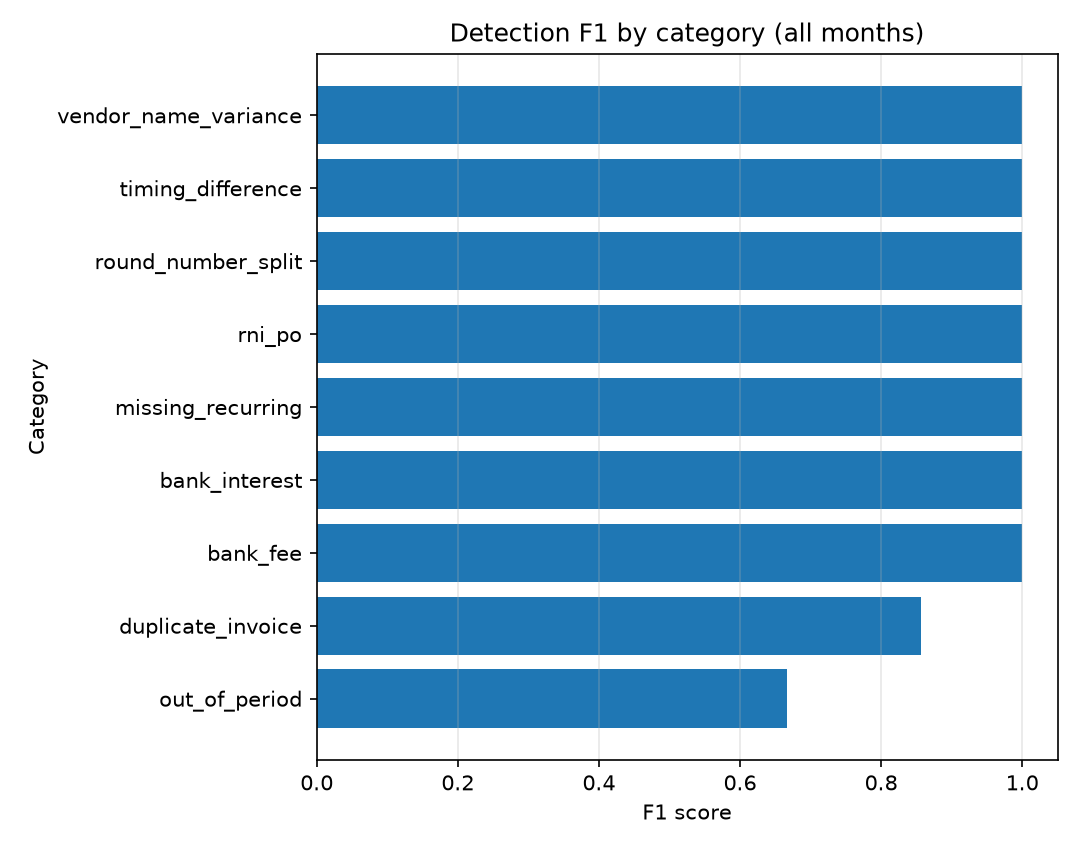
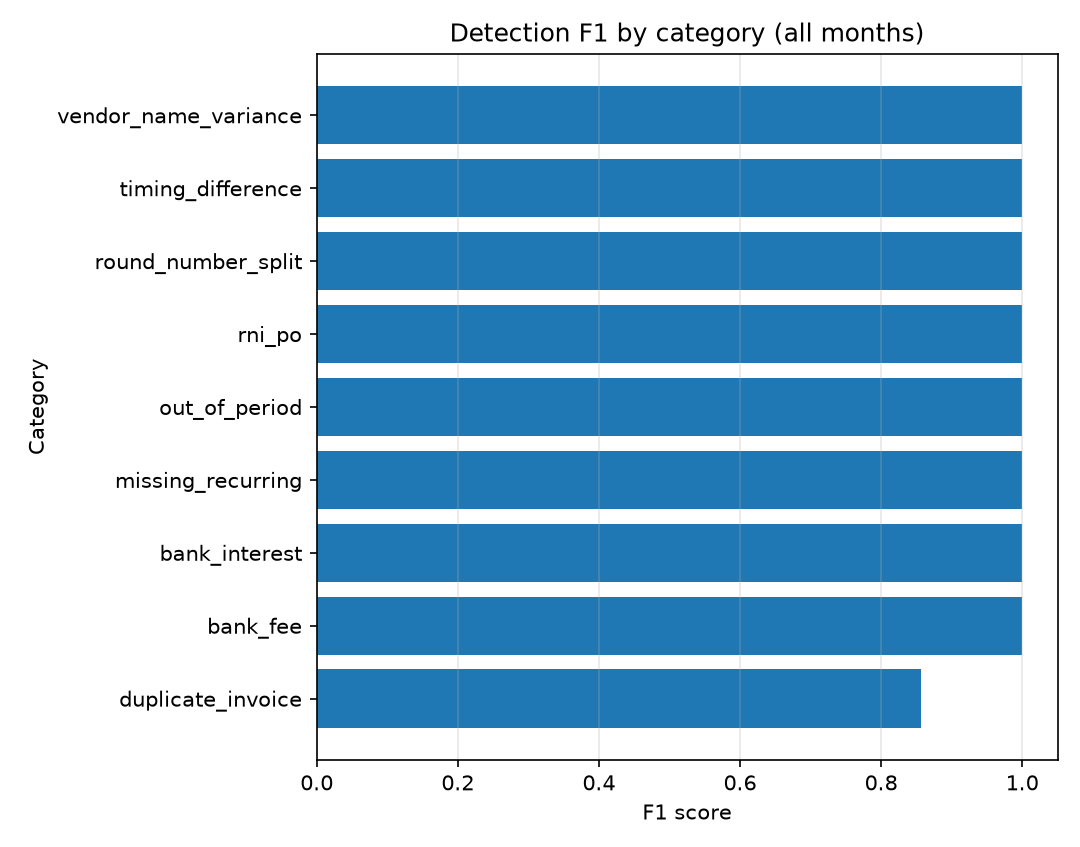
List one out_of_period ground truth entry per posting
A misdated double-entry posting is one anomaly, but the generator
listed both GL legs in ground_truth.json, double-counting it. The
anomaly engine already dedupes to the lowest-id leg, so the second
leg scored as a false negative. Emit a single entry pointing at the
debit leg, add a datagen test pinning one entry per posting with
both legs still present, and regenerate the eval artifacts.

diff --git a/sentinel/datagen/generator.py b/sentinel/datagen/generator.py
@@ -11,7 +11,8 @@ Ground truth conventions (the contract with the engines and the eval harness):
 - vendor_name_variance points at the ap_invoices row booked to the variant
   vendor name.
 - round_number_split lists each split ap_invoices row separately.
-- out_of_period lists each misdated gl_entries row separately.
+- out_of_period points at the lowest-id gl_entries leg of each misdated
+  posting; a double-entry posting is one anomaly, not one per leg.
 - missing_recurring points at the recurring_vendors calendar row whose bill
   is absent this period.
 - rni_po points at the purchase_orders row received but not invoiced.
@@ -541,15 +542,14 @@ class _Generator:
         amount = round(self.rng.uniform(700.0, 2400.0), 2)
         text = "Contractor services accrual"
         debit_row = self._gl(period, wrong, "6600", text, debit=amount, source="manual")
-        credit_row = self._gl(period, wrong, company.ACCRUED, text, credit=amount, source="manual")
-        for row in (debit_row, credit_row):
-            self._plant(
-                period,
-                "out_of_period",
-                "gl_entries",
-                row.id,
-                f"GL entry dated {wrong.isoformat()} posted to period {period}",
-            )
+        self._gl(period, wrong, company.ACCRUED, text, credit=amount, source="manual")
+        self._plant(
+            period,
+            "out_of_period",
+            "gl_entries",
+            debit_row.id,
+            f"GL entry dated {wrong.isoformat()} posted to period {period}",
+        )
 
 
 def generate(

diff --git a/tests/test_datagen.py b/tests/test_datagen.py
@@ -83,6 +83,29 @@ def test_ground_truth_rows_exist(generated):
                 assert entry["description"]
 
 
+def test_out_of_period_ground_truth_is_one_entry_per_posting(generated):
+    engine, summary = generated
+    with sdb.get_session(engine) as session:
+        for entries in summary["ground_truth"].values():
+            planted = [e for e in entries if e["category"] == "out_of_period"]
+            assert len(planted) == 1
+            entry = planted[0]
+            assert entry["source_table"] == "gl_entries"
+            row = session.get(sdb.GLEntry, entry["row_id"])
+            assert row.entry_date[:7] != row.period
+            legs = (
+                session.query(sdb.GLEntry)
+                .filter_by(
+                    entry_date=row.entry_date,
+                    description=row.description,
+                    source=row.source,
+                )
+                .all()
+            )
+            assert len(legs) == 2, "misdated posting keeps both GL legs"
+            assert row.id == min(leg.id for leg in legs)
+
+
 def test_planted_duplicates_are_near_duplicates(generated):
     engine, summary = generated
     with sdb.get_session(engine) as session:
